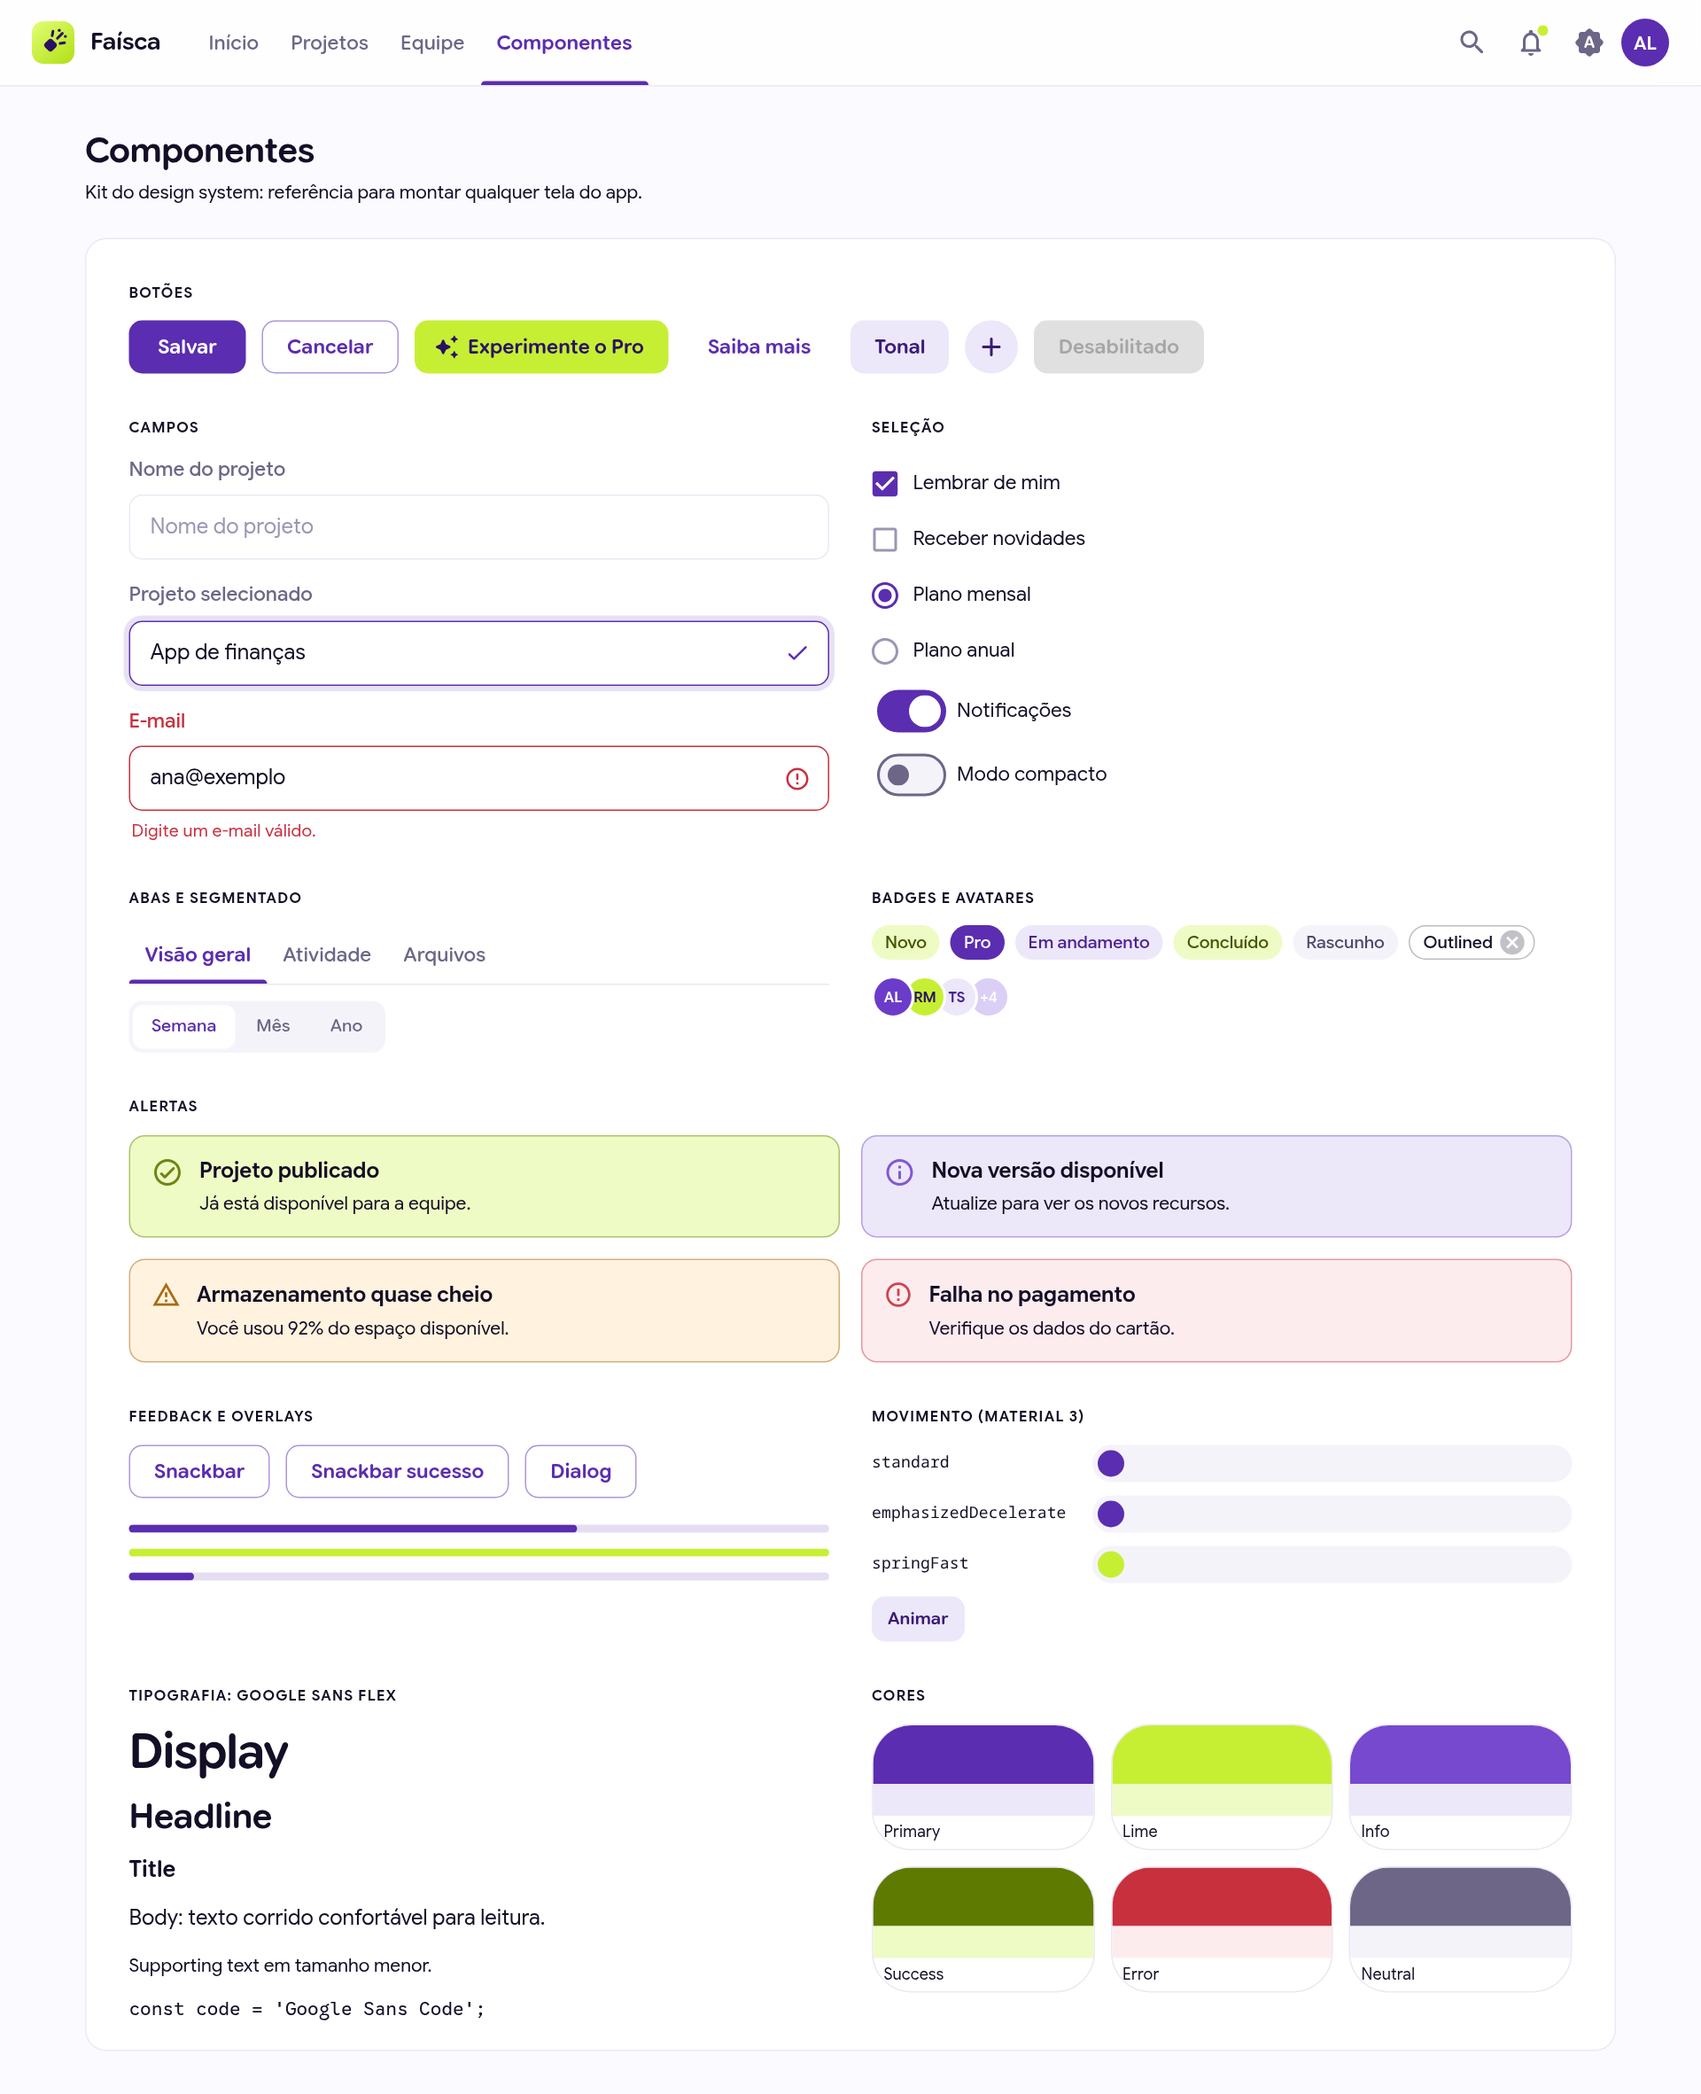
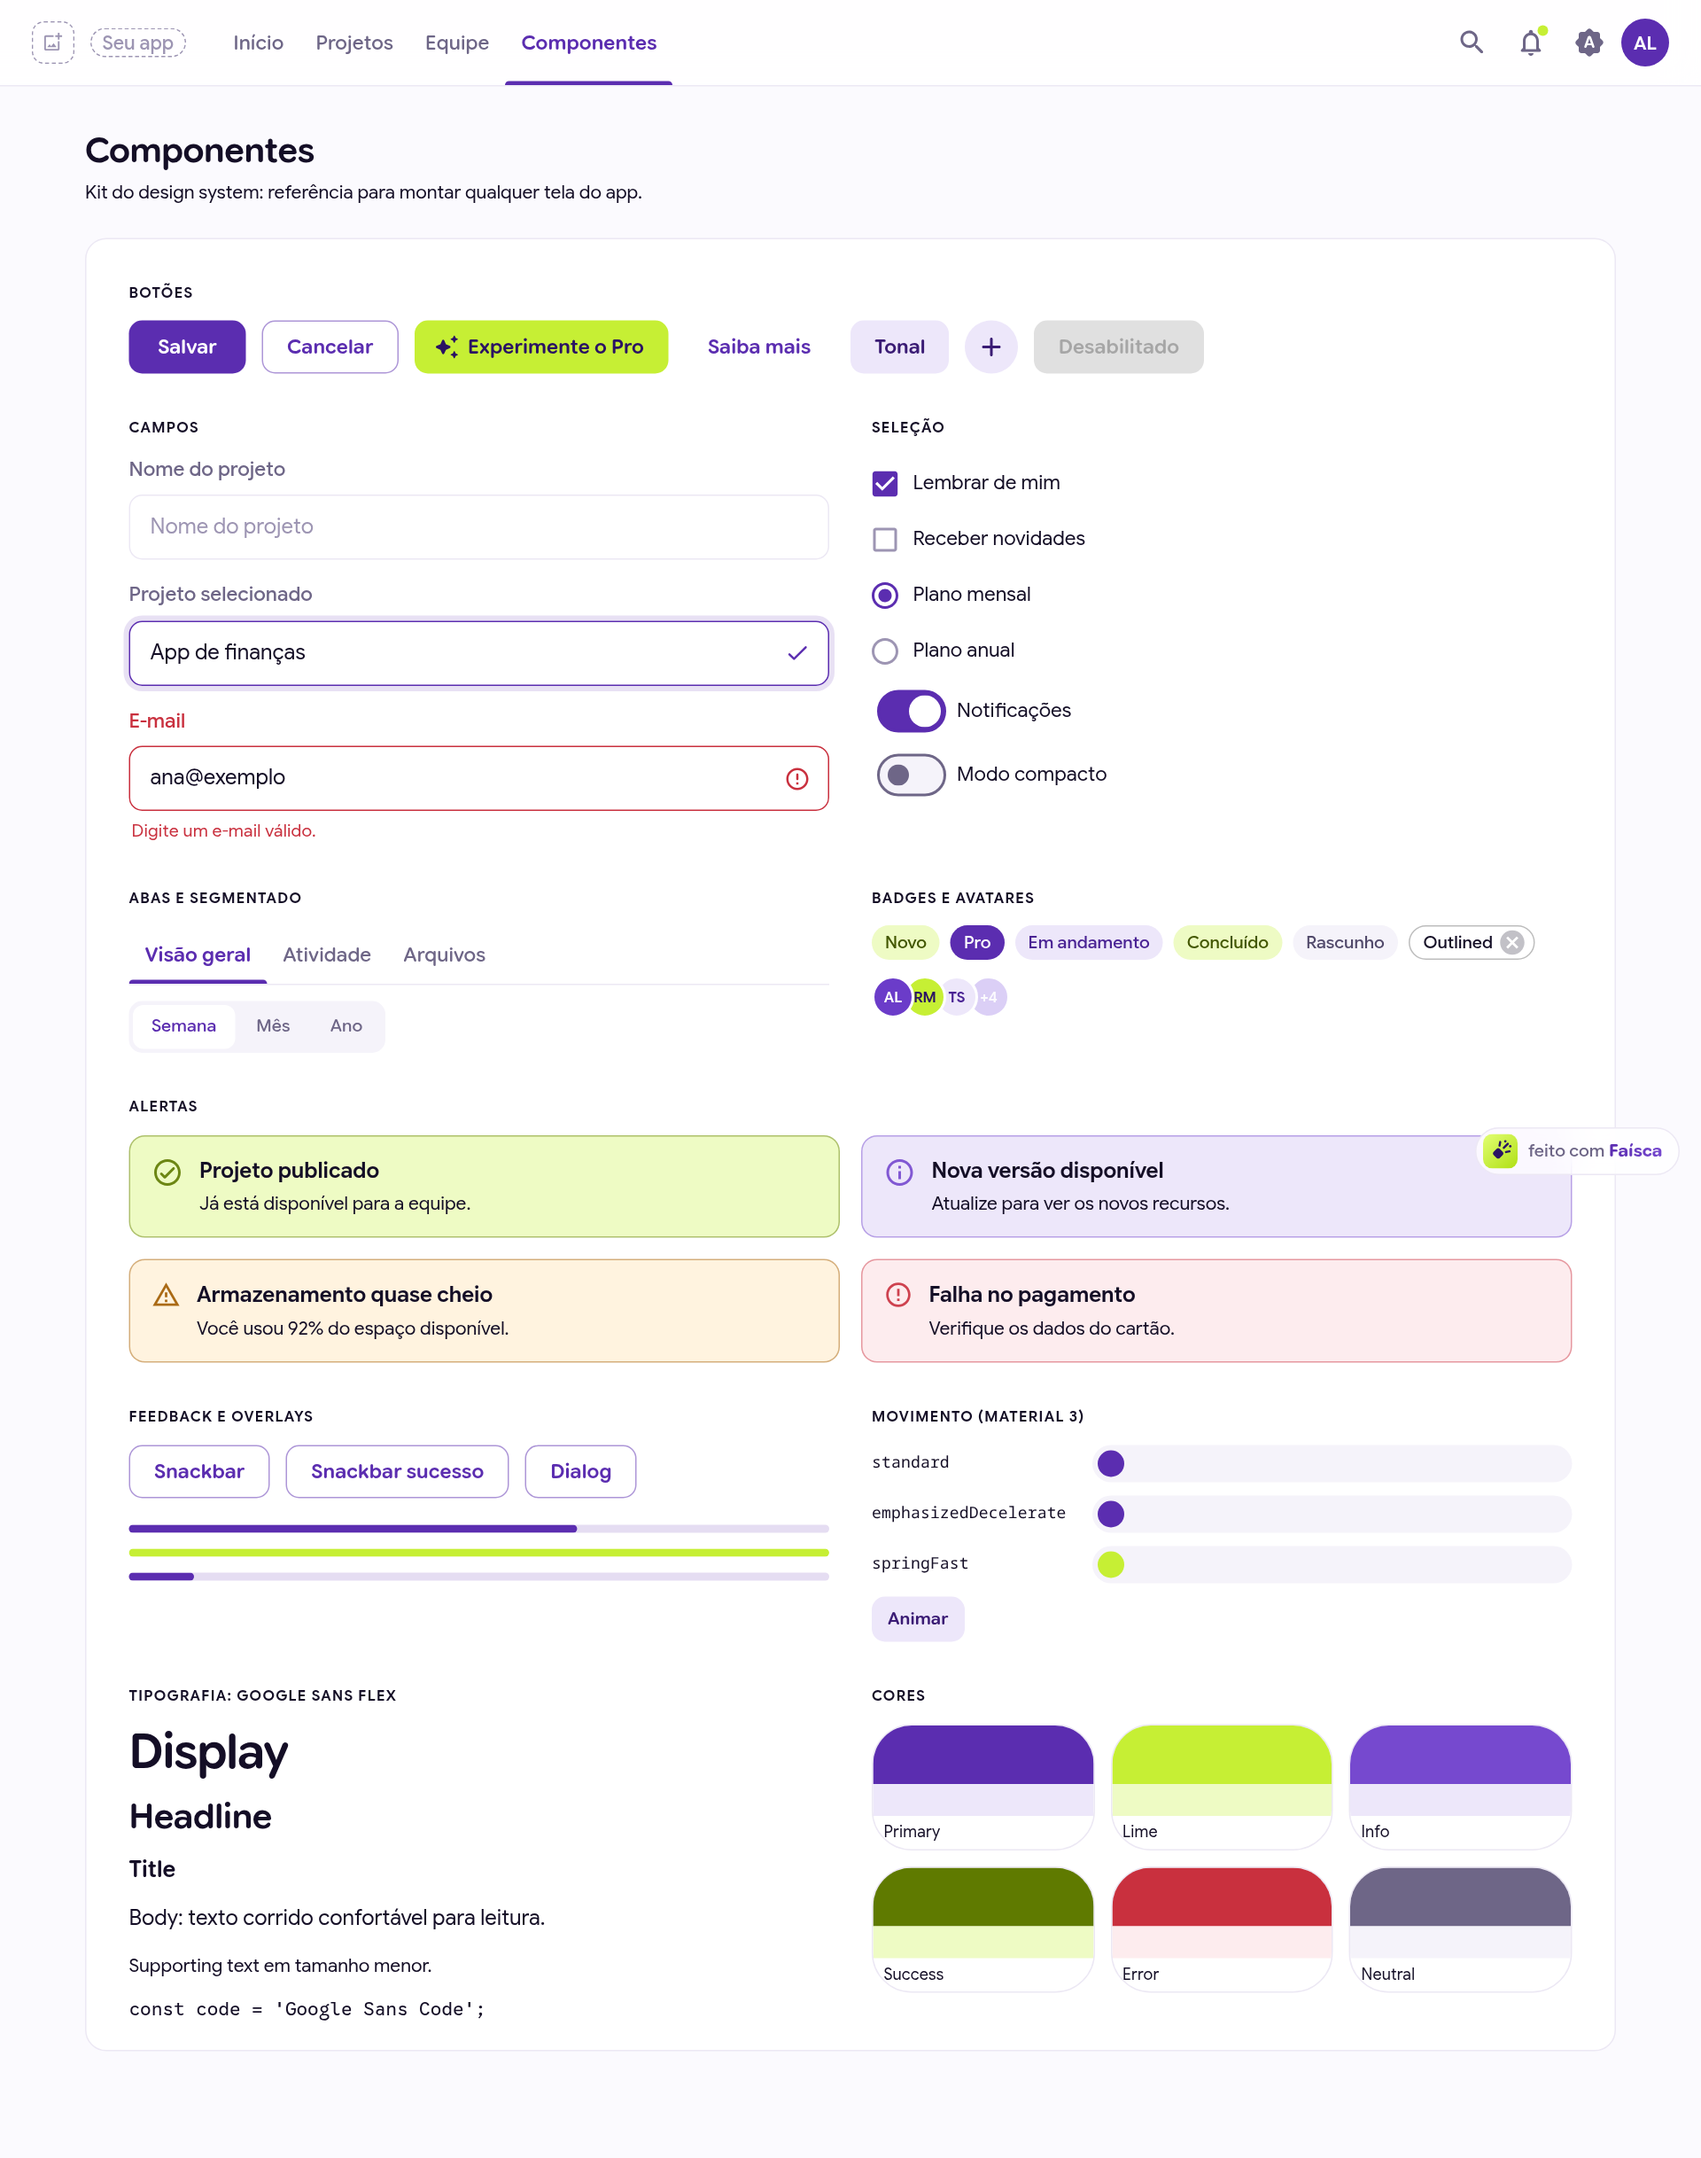
docs: document brand customization

diff --git a/README.md b/README.md
@@ -40,6 +40,7 @@ Trocar de modo é mudar **uma variável de ambiente**. Nenhuma tela muda.
 - 🎨 **Tema Material 3** no MUI: Google Sans Flex, paleta lima + violeta, modo claro/escuro sem piscar
 - ✨ **Feedback e movimento M3**: state layers, molas no clique, foco visível, transições entre páginas e respeito a `prefers-reduced-motion`
 - 📱 **Responsivo**: abas no desktop, barra de navegação inferior no celular
+- 🏷 **Sua marca em 1 passo**: solte `logo.svg` em `src/brand/` (ou use um link) e ele aparece no app e no favicon; até lá, um placeholder mostra onde
 - 🧩 **Kit de componentes** em `/components` como referência viva
 - 🧪 **Testes** (Vitest + Testing Library), **ESLint**, **Prettier**, **CI** e **Dependabot**
 - 🖥 **Backend de referência** em Express implementando o contrato completo
@@ -130,6 +131,8 @@ Todas as variáveis ficam no `.env` (copie de [`.env.example`](.env.example)). E
 | Variável                     | Modo     | Descrição                                     |
 | ---------------------------- | -------- | --------------------------------------------- |
 | `VITE_APP_NAME`              | todos    | Nome exibido no app e na aba do navegador     |
+| `VITE_APP_LOGO_URL`          | todos    | Link do logo (prioridade sobre `src/brand/`)  |
+| `VITE_SHOW_POWERED_BY`       | todos    | `false` esconde o selo "feito com Faísca"     |
 | `VITE_AUTH_PROVIDER`         | todos    | `mock`, `firebase` ou `backend`               |
 | `VITE_ENABLE_EMAIL_PASSWORD` | todos    | `false` para deixar só o botão do Google      |
 | `VITE_API_URL`               | todos    | URL da sua API. Vazio = dados de demonstração |
@@ -206,6 +209,20 @@ Decisões que tornam o template robusto:
 - **Code splitting.** O SDK do Firebase só é baixado quando o modo `firebase` está ativo.
 - **Falha amigável.** Configuração errada vira uma tela explicativa, não uma página em branco.
 
+## Sua marca
+
+Um app recém-criado mostra **placeholders transparentes** no lugar do logo e do nome, e clicar neles abre um guia rápido. Para trocar:
+
+| O quê                | Como                                                                                                                                         |
+| -------------------- | -------------------------------------------------------------------------------------------------------------------------------------------- |
+| **Logo por arquivo** | Salve como `src/brand/logo.svg` (ou `.png`, `.webp`, `.avif`, `.jpg`). É detectado automaticamente, com hot reload, e também vira o favicon. |
+| **Logo por link**    | `VITE_APP_LOGO_URL=https://seu-site.com/logo.svg` no `.env` (tem prioridade sobre a pasta).                                                  |
+| **Nome**             | `VITE_APP_NAME=Meu App` no `.env`. Também preenche o título da aba.                                                                          |
+
+<p align="center"><img src="docs/images/brand-setup.png" alt="Guia Personalize sua marca, aberto ao clicar no placeholder" width="560" /></p>
+
+No canto inferior da tela fica o selo **"feito com Faísca"**, um lembrete de onde o app nasceu (e um link para este repositório). Se preferir, desligue com `VITE_SHOW_POWERED_BY=false`.
+
 ## Tema e design
 
 Tema MUI com **Material Design 3** e a tipografia dos materiais de IA do Google (**Google Sans Flex** com terminais arredondados e **Google Sans Code**), servida localmente via Fontsource. Paleta lima `#C6EF34` + violeta `#5B2DB0`, modo claro/escuro e tokens de movimento do M3.
@@ -226,8 +243,8 @@ Para trocar cores, fonte, ícone e nome, veja **[docs/tema.md](docs/tema.md)**.
 
 ## Checklist do app novo
 
-- [ ] `VITE_APP_NAME` e `name` no `package.json`
-- [ ] Ícone: `src/components/brand/FaiscaMark.tsx` e `public/favicon.svg`
+- [ ] Logo em `src/brand/logo.svg` (ou `VITE_APP_LOGO_URL`) e `VITE_APP_NAME` no `.env`
+- [ ] `name` no `package.json`
 - [ ] Cores em `src/theme/tokens.ts` (se quiser outra identidade)
 - [ ] Modo de autenticação e credenciais **próprias do projeto** no `.env`
 - [ ] Origens autorizadas no Google Cloud / Firebase (localhost + produção)

diff --git a/docs/tema.md b/docs/tema.md
@@ -10,7 +10,9 @@ O visual é um tema do [MUI](https://mui.com/material-ui/) inspirado no **Materi
 | [`src/theme/theme.ts`](../src/theme/theme.ts)                                                                                   | Esquemas claro/escuro, tipografia e overrides de todos os componentes                  |
 | [`src/theme/motion.ts`](../src/theme/motion.ts)                                                                                 | Tokens de easing e duração do M3, helper `transition()` e opacidades de _state layer_  |
 | [`src/theme/augment.d.ts`](../src/theme/augment.d.ts)                                                                           | Tipos das extensões: cor `lime`, `container`/`onContainer`, variantes `tonal` e `soft` |
-| [`src/components/brand/FaiscaMark.tsx`](../src/components/brand/FaiscaMark.tsx) + [`public/favicon.svg`](../public/favicon.svg) | Ícone da marca                                                                         |
+| [`src/brand/`](../src/brand/README.md)                                                                                          | **Seu logo** (`logo.svg`, `.png`...), detectado automaticamente                        |
+| [`src/config/brand.ts`](../src/config/brand.ts)                                                                                 | Resolve logo e nome: `VITE_APP_LOGO_URL` → `src/brand/logo.*` → placeholder            |
+| [`src/components/brand/FaiscaMark.tsx`](../src/components/brand/FaiscaMark.tsx) + [`public/favicon.svg`](../public/favicon.svg) | Marca do template Faísca (selo "feito com Faísca" e favicon padrão)                    |
 
 A página **/components** do app mostra todos os componentes estilizados: use como referência viva ao montar telas novas.
 
@@ -48,10 +50,11 @@ sx={{ transition: transition(['transform', 'opacity'], 'medium2', 'emphasizedDec
 
 ## Trocando a marca
 
-1. Nome: `VITE_APP_NAME` no `.env`.
-2. Cores: edite `lime` e `violet` em `tokens.ts` (mantenha a escala 50–900 para que containers e estados continuem harmônicos).
-3. Ícone: substitua `FaiscaMark.tsx` e `public/favicon.svg`.
-4. Fonte: troque o import em `src/main.tsx` e `fontFamily` em `theme.ts`.
+1. **Logo:** salve em `src/brand/logo.svg` (ou `.png`, `.webp`, `.avif`, `.jpg`), ou aponte `VITE_APP_LOGO_URL` para um link. Ele aparece no cabeçalho, no login, no carregamento, no 404 e como favicon. Enquanto não houver logo, um placeholder tracejado mostra onde ele vai ficar.
+2. **Nome:** `VITE_APP_NAME` no `.env` (também vira o título da aba).
+3. **Cores:** edite `lime` e `violet` em `tokens.ts` (mantenha a escala 50–900 para que containers e estados continuem harmônicos).
+4. **Fonte:** troque o import em `src/main.tsx` e `fontFamily` em `theme.ts`.
+5. **Selo "feito com Faísca":** fica no canto inferior e linka para o template. Para esconder, `VITE_SHOW_POWERED_BY=false`.
 
 ## Botão do Google
 
